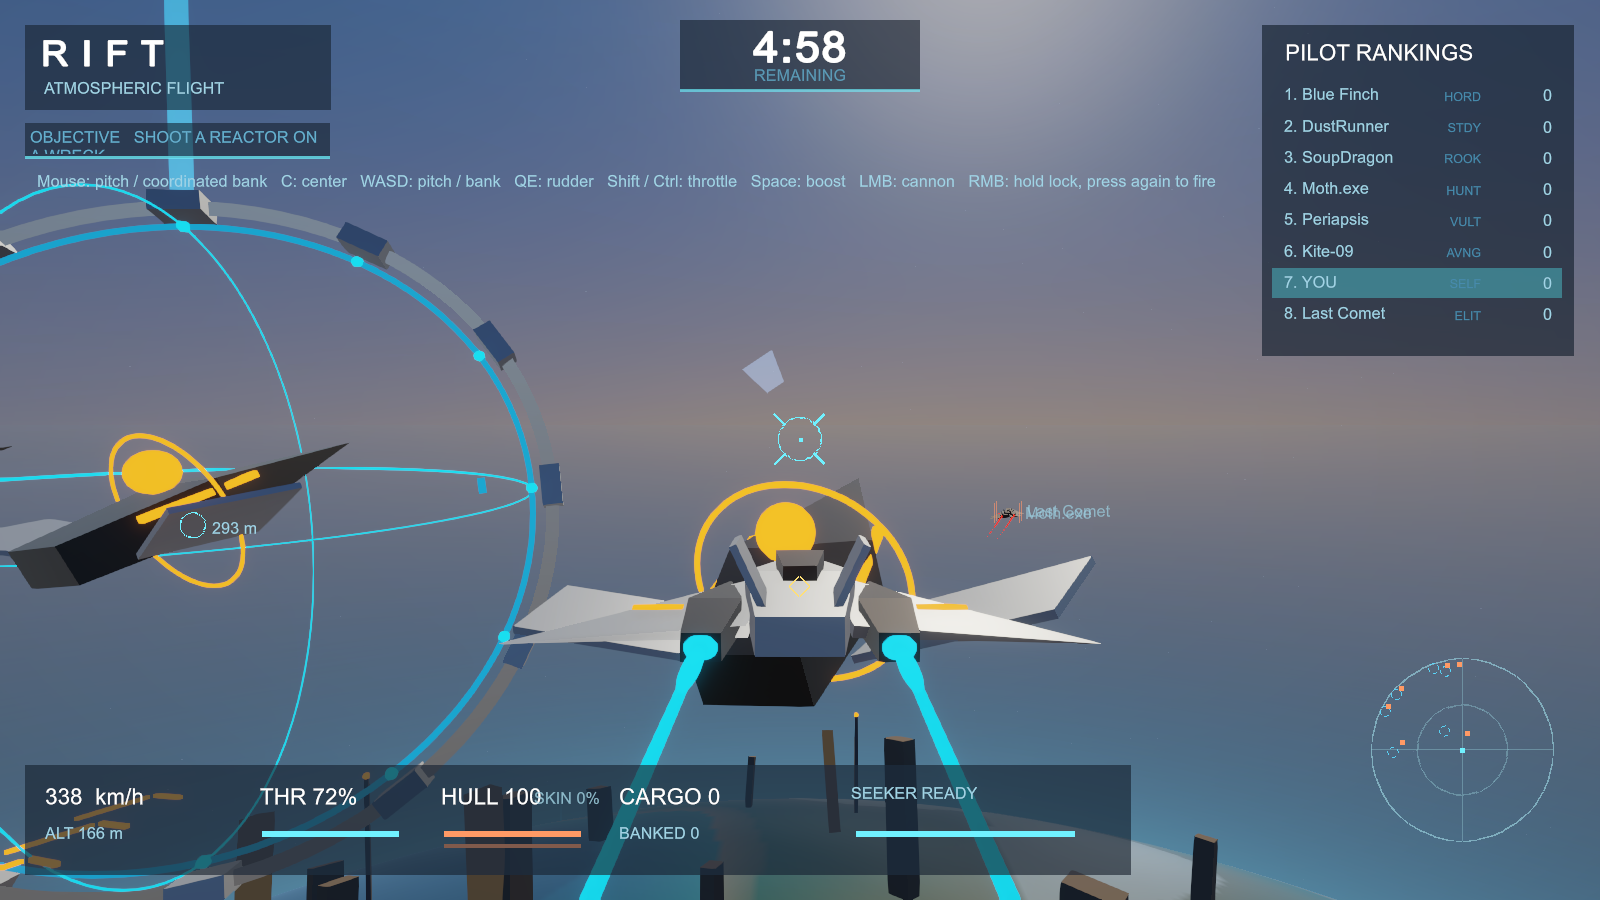
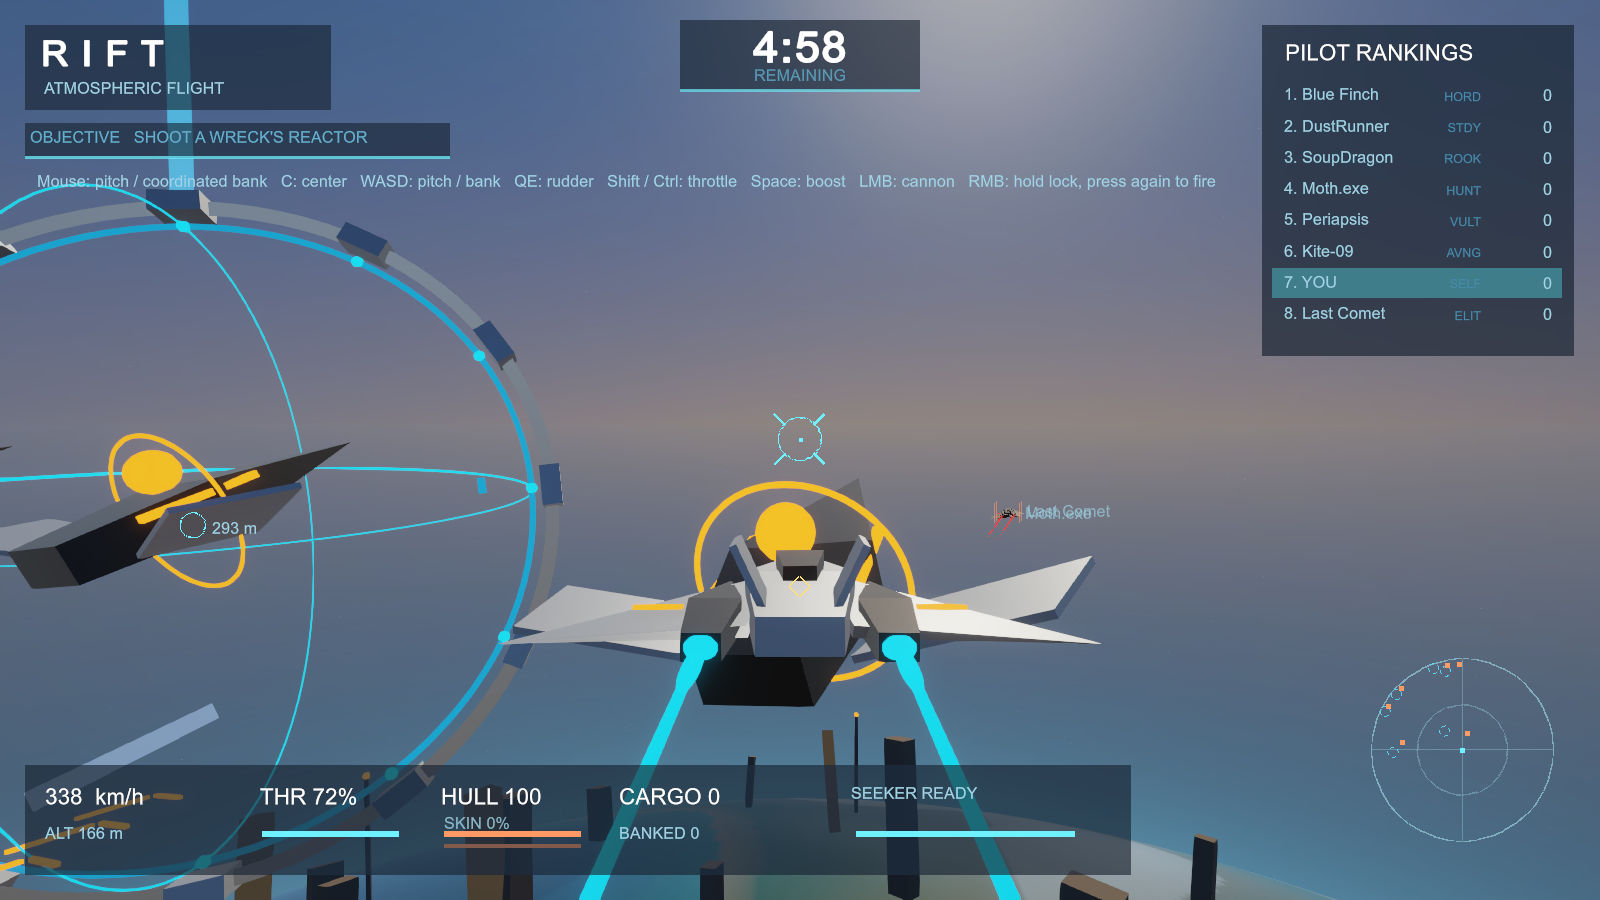
fix: objective card width, SKIN readout placement, deferred trail clear (HUD capture review)

diff --git a/My project/Assets/Scripts/PlanetArenaHUD.cs b/My project/Assets/Scripts/PlanetArenaHUD.cs
@@ -382,11 +382,12 @@ public partial class AerialCombatPrototype
         float scale=tutorialStep>=4?1:Mathf.Lerp(1.25f,1,1-Mathf.Pow(1-Mathf.Clamp01(t*3),3));
         float fade=tutorialStep>=4?Mathf.Clamp01(tutorialPop/.6f):1;
         Matrix4x4 old=GUI.matrix;
-        GUI.matrix=old*Matrix4x4.TRS(new Vector3(142,112,0),Quaternion.identity,new Vector3(scale,scale,1));
-        Box(new Rect(-122,-14,244,28),new Color(.01f,.025f,.045f,.8f*fade));
-        Line(new Vector2(-122,14),new Vector2(122,14),tutorialStep>=4?new Color(1,.74f,.18f,.8f*fade):new Color(.16f,.88f,1,.6f*fade),2);
+        // 340 wide: the first HUD capture from the built player showed the 244 px card wrapping its longest line.
+        GUI.matrix=old*Matrix4x4.TRS(new Vector3(190,112,0),Quaternion.identity,new Vector3(scale,scale,1));
+        Box(new Rect(-170,-14,340,28),new Color(.01f,.025f,.045f,.8f*fade));
+        Line(new Vector2(-170,14),new Vector2(170,14),tutorialStep>=4?new Color(1,.74f,.18f,.8f*fade):new Color(.16f,.88f,1,.6f*fade),2);
         GUI.color=tutorialStep>=4?new Color(1,.88f,.52f,fade):new Color(.63f,.83f,.9f,fade);
-        Text(new Rect(-118,-13,240,26),(tutorialStep>=4?"":"OBJECTIVE   ")+Objectives[Mathf.Clamp(tutorialStep,0,4)],small);
+        Text(new Rect(-166,-13,336,26),(tutorialStep>=4?"":"OBJECTIVE   ")+Objectives[Mathf.Clamp(tutorialStep,0,4)],small);
         GUI.color=Color.white;GUI.matrix=old;
     }
     void Box(Rect r,Color c){GUI.color=c;GUI.DrawTexture(r,Texture2D.whiteTexture);GUI.color=Color.white;}
@@ -504,7 +505,8 @@ public partial class AerialCombatPrototype
         // weapon-heat bar at the right end of the strip: a full bar here means the airframe is already burning.
         float temp=Mathf.Clamp01(player.hullHeat);bool burning=player.hullHeat>1;
         GUI.color=burning?new Color(1,.55f,.22f):new Color(1,1,1,.7f);
-        Text(new Rect(427,Height-92,66,22),"SKIN "+Mathf.RoundToInt(player.hullHeat*100)+"%",small);
+        // Under the HULL number, not beside it: the first built-player capture had "SKIN 0%" printed through "HULL 100".
+        Text(new Rect(355,Height-72,110,18),"SKIN "+Mathf.RoundToInt(player.hullHeat*100)+"%",small);
         GUI.color=Color.white;
         Box(new Rect(355,Height-45,110,3),new Color(.22f,.1f,.07f));
         Box(new Rect(355,Height-45,110*temp,3),burning?Color.Lerp(new Color(1,.45f,.12f),new Color(2.4f,1.6f,.9f),.5f+.5f*Mathf.Sin(Time.unscaledTime*9)):Color.Lerp(new Color(.8f,.34f,.1f),new Color(1.7f,.44f,.1f),temp));

diff --git a/My project/Assets/Scripts/PlanetArenaFlight.cs b/My project/Assets/Scripts/PlanetArenaFlight.cs
@@ -16,6 +16,7 @@ public partial class ArenaPilot : MonoBehaviour
     // 1.2 s of continuous tracking. Long enough that a missile is a decision, short enough to land inside one firing pass.
     public const float LockTime=1.2f;
     public int autopilot=-1;
+    bool trailsDirty;
     float burnBank;
     // Decays on simulation dt, not wall clock, so rivals hearing gunfire stays deterministic under the verification harness.
     public float firedRecently;
@@ -52,6 +53,9 @@ public partial class ArenaPilot : MonoBehaviour
         var g=AerialCombatPrototype.I;if(!art || !g || g.paused)return;
         Vector3 position;Quaternion rotation;SampleRenderPose(out position,out rotation);
         art.SetPositionAndRotation(position,rotation);
+        // A TrailRenderer cleared in the same frame its object is created keeps a vertex at the world origin; the first
+        // built-player capture showed both exhaust trails drawn to (0,0,0). Clear again on the first rendered frame.
+        if(trailsDirty){foreach(var t in GetComponentsInChildren<TrailRenderer>())t.Clear();trailsDirty=false;}
         if(plumes==null)
         {
             var parts=art.GetComponentsInChildren<Transform>();int found=0;
@@ -76,7 +80,7 @@ public partial class ArenaPilot : MonoBehaviour
 
     public void ClearTrails()
     {
-        generation++;
+        generation++;trailsDirty=true;
         foreach(var t in GetComponentsInChildren<TrailRenderer>()) t.Clear();
     }
     void FixedUpdate()

diff --git a/My project/Assets/Scripts/AerialCombatPrototype.cs b/My project/Assets/Scripts/AerialCombatPrototype.cs
@@ -26,7 +26,7 @@ public partial class AerialCombatPrototype : MonoBehaviour
     // Onboarding: one objective line that walks a new pilot through the loop once (shoot, scoop, ring, hold), then
     // never again on this machine. Advanced on the match clock from the flags the game already raises.
     public int tutorialStep; public float tutorialPop; public bool playerHitWreck, playerBanked;
-    public static readonly string[] Objectives={"SHOOT A REACTOR ON A WRECK","FLY INTO THE SALVAGE IT SPILLS","TAKE IT TO A REFINERY RING","HOLD INSIDE THE RING","LOOP CLOSED   /   NOW GO HUNTING"};
+    public static readonly string[] Objectives={"SHOOT A WRECK'S REACTOR","FLY INTO THE SPILLED SALVAGE","CARRY IT TO A REFINERY RING","HOLD INSIDE THE RING","LOOP CLOSED   /   NOW GO HUNTING"};
     // Results-screen awards, computed once when the match ends.
     public readonly List<string> awards=new List<string>();
     // Standalone player only: -rift-screenshot=<png> captures the full frame with the HUD 4.5 s in, then quits a second later.

diff --git a/CHANGELOG.md b/CHANGELOG.md
@@ -108,6 +108,7 @@
 
 ### Fixed
 
+- **第一张带 HUD 的实机截图（`docs/rift-hud.png`）暴露的三处**：Objective 卡 244 px 装不下最长的一行会折行——加宽到 340 并缩短四条文案；`SKIN 0%` 印在 `HULL 100` 上——挪到 HULL 数字正下方（y=Height−72）；两条引擎尾迹从喷口一直画到世界原点——`TrailRenderer` 在创建同一帧里 `Clear()` 无效，会保留一个 (0,0,0) 顶点，现在 `ClearTrails()` 标记 `trailsDirty`，`LateUpdate` 在第一次摆好机体姿态之后再清一次。
 - **独立播放器在 `Awake` 里直接崩溃**（第一次无头构建就暴露）：全部材质都是运行时 `Shader.Find` 建的，而播放器构建会剥离任何没有资源引用的 shader，于是 `new Material(null)` 抛 `ArgumentNullException: shader`——这个游戏在此之前从来没能以独立播放器的形式运行过。修法：`RiftBuild.EnsureShaderAssets()` 在 `Assets/Resources/RiftShaders/` 为六个 shader（URP Lit / Unlit、Rift/PlanetSurface / Atmosphere / Sky / Additive）各生成一个锚点材质并提交进仓库，构建就带上它们的默认变体（运行时没有用任何 keyword，默认变体足够）。
 - **AI 会永久放弃报复且一枪不开**（`c5f2956`）。校验项 "Returns fire on attacker despite carrying cargo" 在批次 2/3 之后一直失败，实机逐帧打点后发现是四个叠加的 bug 而非单纯转向慢：① `gateTarget` 在 tactic / 导航 / 油门三处都压过正在进行的交战，且决策块里 `else if(gateTarget)rivalTarget=null;` 会在 `retaliation` 归零那一帧清掉一个正在拉近的合法目标，之后不再重新扫描 —— 现在报复或 Alert 期间根本不计算 `gateTarget`，并删掉了那行强制清空；② Search 状态飞的是随自身位置漂移的方位角，改成记住并飞向 `lastKnownPosition` 绝对坐标（`NotifyAttacked` / 丢失接触 / 听见枪声三处写入）；③ 近距离脱离机动与开火共用同一门槛，贴脸那一帧被脱离拦住 —— 开火判定挪到脱离触发之前，且 `rivalTarget` 为空时 `breakTime=0`；④ 开火锥角 `<7°` 在共享飞行模型下弯道追击只能收敛到恰好 7.0°，放宽到 `<9°`。`RiftCombatVerification` 的报复窗口从 60 步放宽到 550 步（11 s），注释说明正后方受击的最坏几何需要 9–10 s 才能重新咬住。
 - `PLAYTEST.md` 里截图目录写成不存在的 `My project/Captures`，实际目录是 `docs/screenshots/`（由 `RiftScreenshotRunner` 生成）与历史的 `My project/Assets/Screenshots/`。
